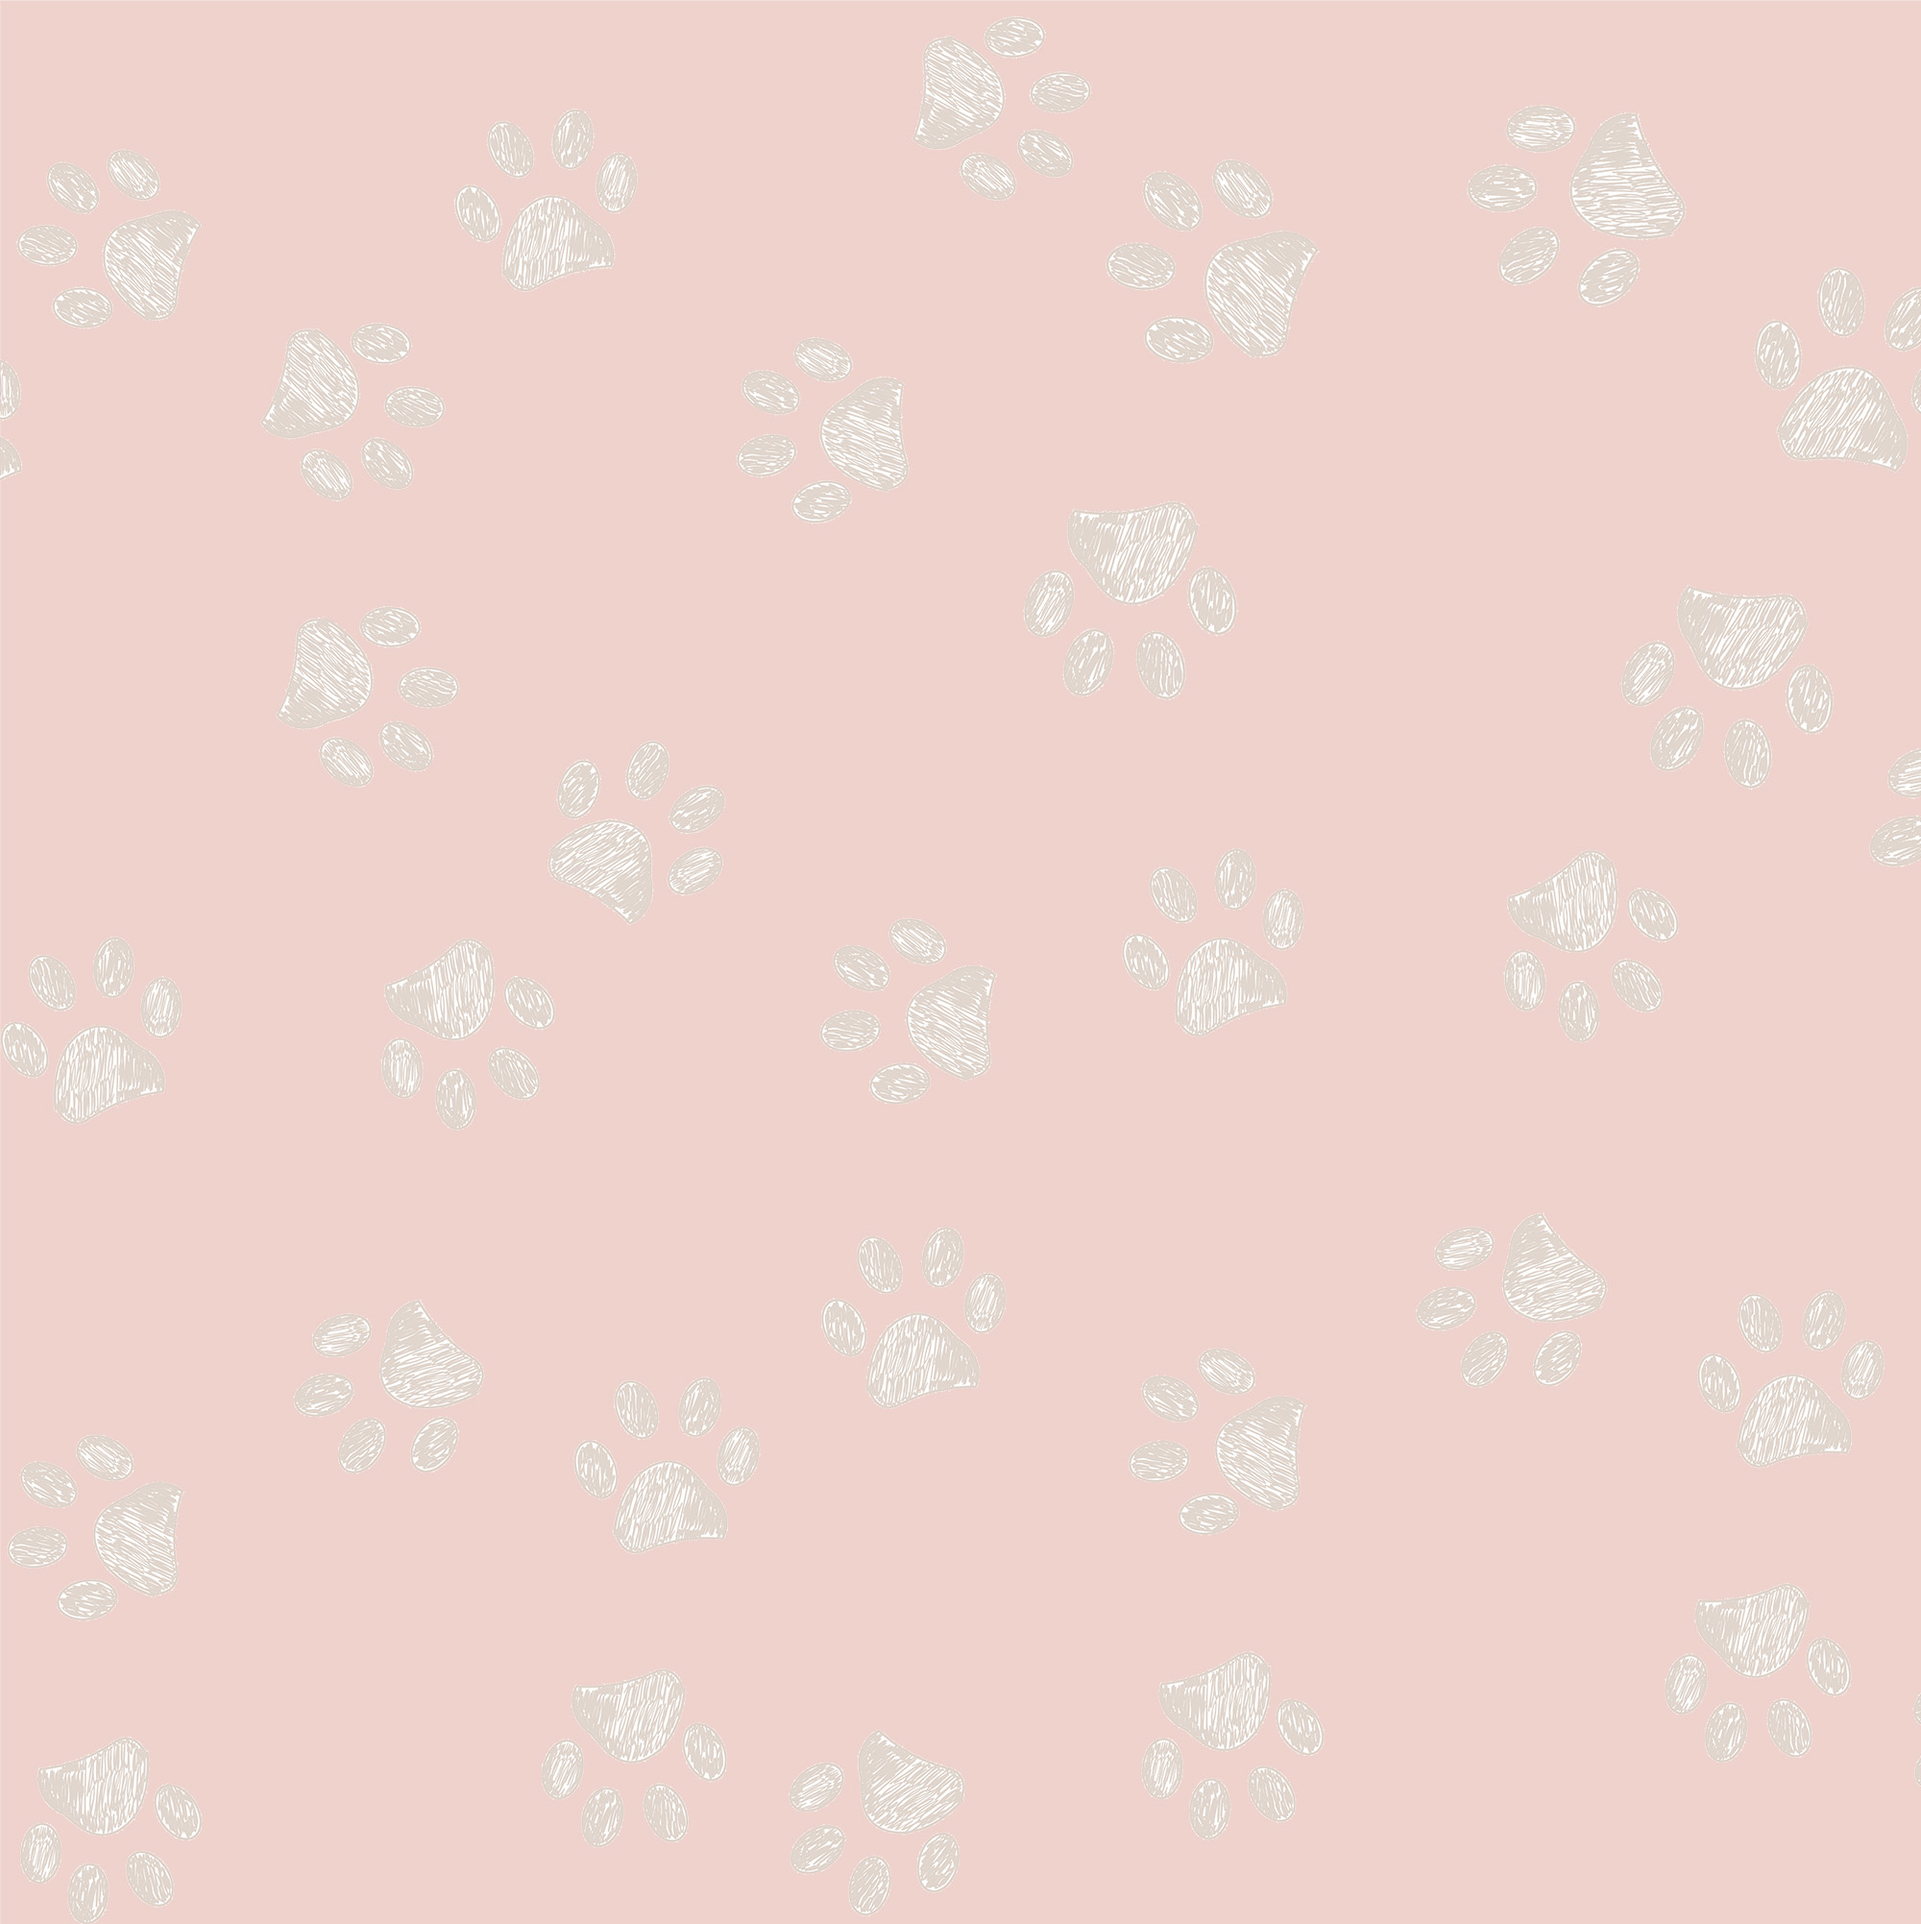
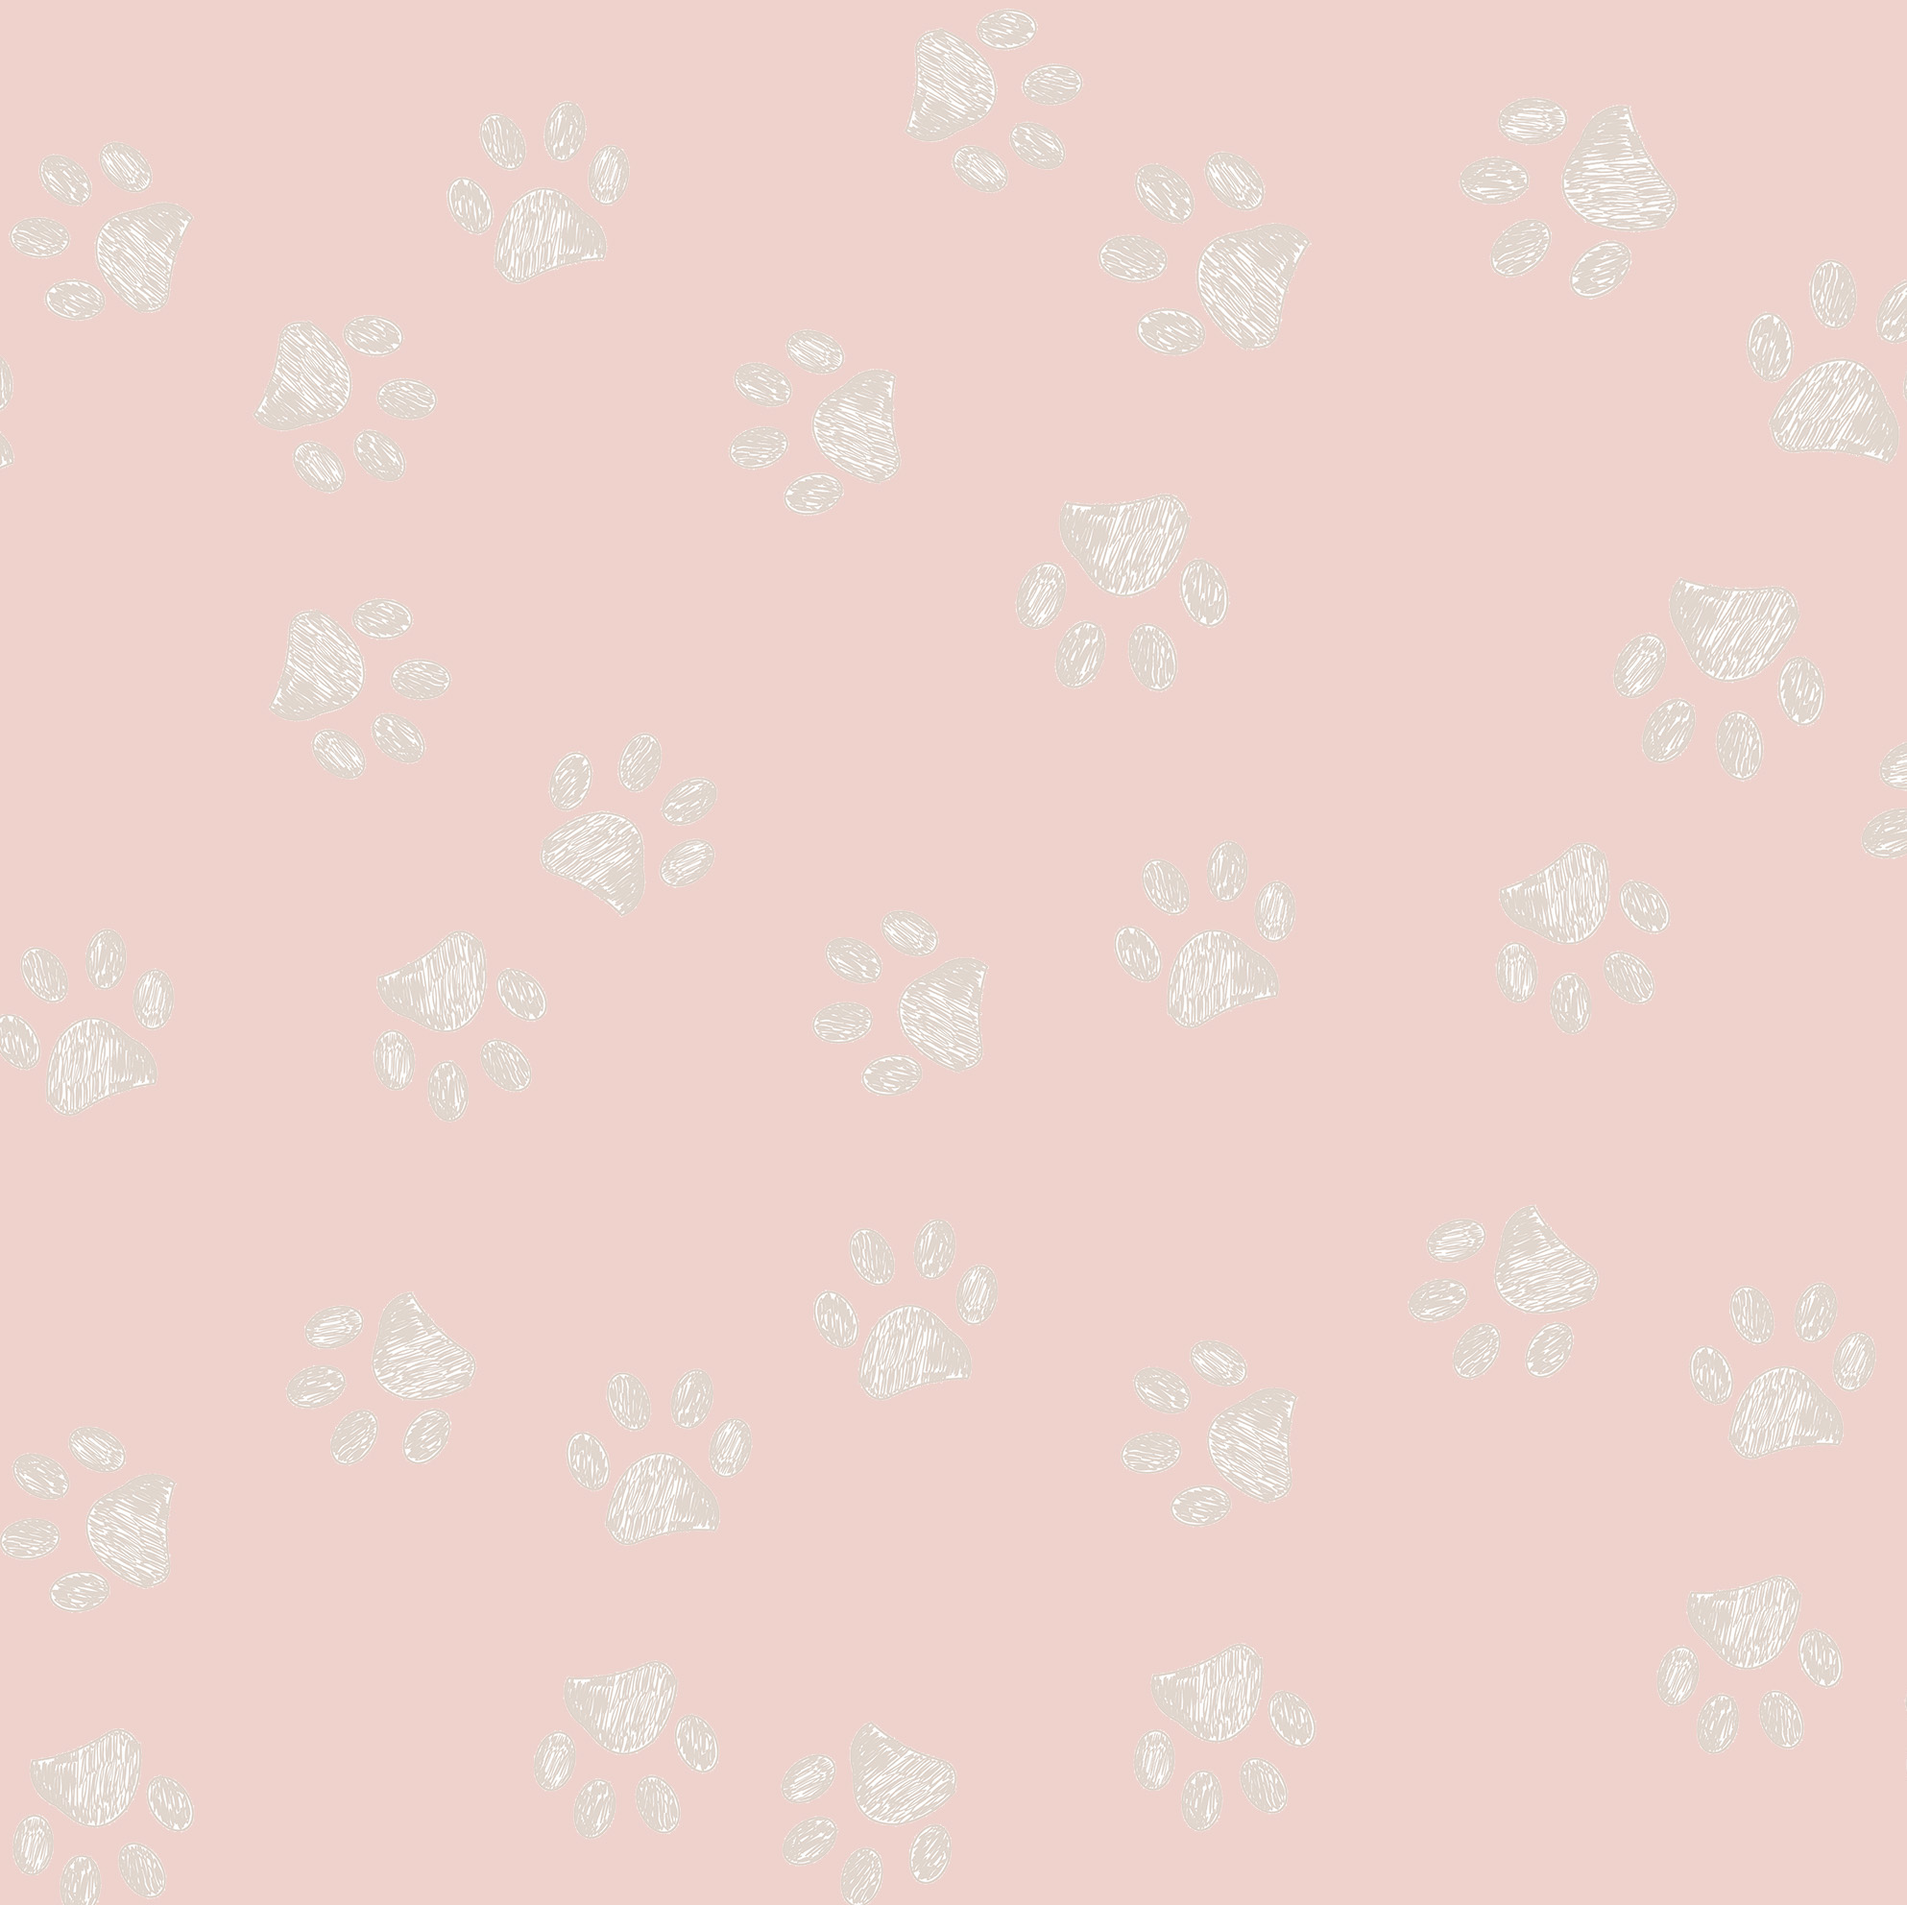
fix bg

diff --git a/client/src/index.css b/client/src/index.css
@@ -5,5 +5,5 @@
 :root {
   font-size: 16px;
   font-family: 'M PLUS Rounded 1c', sans-serif;
-  background-image: url("bg_img.jpg");
+  background: #EED2CC url("bg_img.jpg") top repeat;
 }
